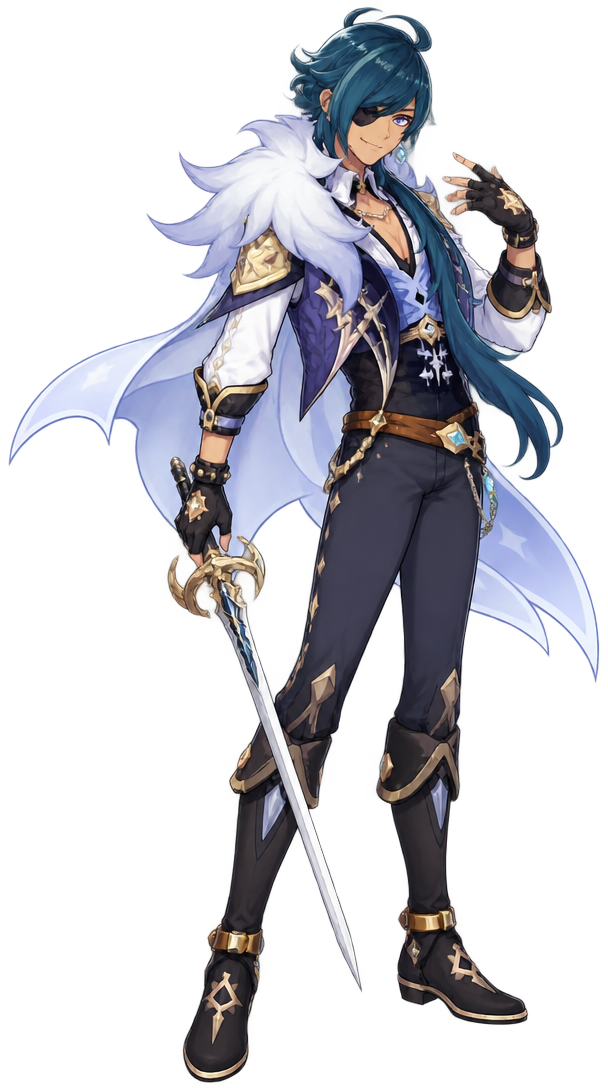
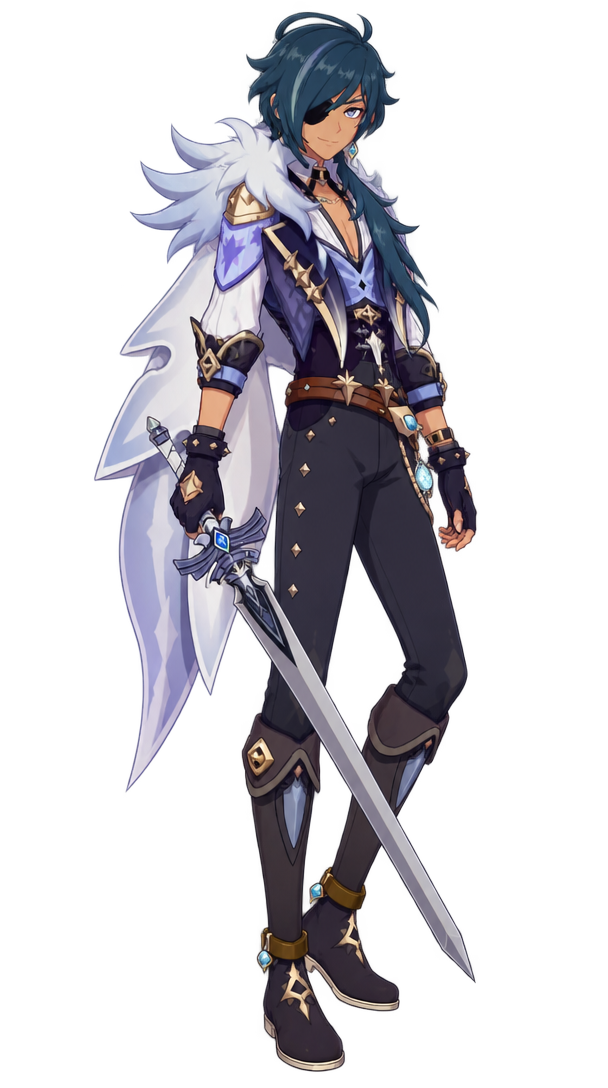
美术：凯亚待机立牌重生成——官方实机五视图参考+禁厚涂定稿
- kaeya_stand.png 内容替换（guid 不变零接线，消费者 UnitConfig 立牌图/FrozenTest 场景自动生效）：用户提供官方实机五视图（正/左右侧/背/武器剑）作唯一参考，日辉 portrait_16_9 原生透明一次过；素材指代标签法+「画风与参考图完全一致——三渲二平涂赛璐璐」+严禁厚涂负向穷举首尾重复+显式排除截图渐变背景光斑；用户目检「非常满意」通过
- 参考素材归档 .codely-cli/webrefs/genshin-unpack/extracted/kaeya_model_views/（本地库不入 git）；配方与取代旧双参考配方的关系沉淀 gic-paperdoll skill
- CODELY.md：凯亚立牌定稿条目 + AI 生成提示词知识库指引条目

diff --git a/CODELY.md b/CODELY.md
@@ -591,7 +591,8 @@
 - [2026-10-06 14:01:12] 【决策四十八：技能按钮底面资源进度填充（2026-10-06 用户拍板「对于需要消耗元能，摩拉等资源的（不包括体力），比如爆发，延奏，契约，其底面不要直接填满颜色，应当根据百分比，从下至上填色（让玩家能一眼看出进度），比如安柏爆发要3元能，如果此时安柏只有2元能，那么只填充66%」；同日目检返修「太暗，亮一点点」轨道系数 0.3→0.4；编译 0 错；**已提交推送 2bc8063（2026-10-06 收官批，用户「验证通过，收尾」）**）】实现：SkillIconView——skillBadge 底板转**暗元素色空槽轨道**（元素色×BadgeTrackFactor 0.4）+懒建 **BadgeFill** 运行时填充件（同 rect/同圆板 sprite/Filled/Vertical/OriginBottom/元素色，sibling 插 Badge 之上 IconMask 之下——Mask 只裁子级不受裁剪；**运行时建件勿入 prefab**=OrbitBeamsUi 惯例，非战斗消费方恒满填=视觉恒等旧版零 prefab 改动零迁移）；SetResourceProgress 只写 fillAmount 不碰颜色（置暗=SetConditionDimmed 统一管，填充件基准色随 InitWithData 缓存，**与决策四十⑦整键置暗正交叠加**）。BattleHud——SkillResourceProgress=非体力消耗逐条 min(持有/需求) 钳 0~1（多条目取最紧一环）；**HeldResourceAmount 单源**（元能=选中单位快照/摩拉=本端缓存/物品=CountHandItem/CountHandAnyItem 计数化——原 HasHandItem/HasHandAnyItem 退役、门槛与进度共用同源、镜像安全网 Warn 迁入）；接线=ApplySkillButton/ApplyMoveButton 尾部（**己方单位才计算**、敌方查看态恒满=同置灰拍板口径、移动键无 Move 条目满填防残留）。**体力不参与**（拍板排除——移动/战技键恒满填）；水位随快照刷新实时跟（战技命中+10 元能→跳涨）。落档 docs/18 决策四十八+docs/17 战斗 HUD 行+gic-battle-hud skill（文件地图行+勿当 bug 修清单条）。
 
 - [2026-10-06 14:01:16] 【决策四十九：战斗 HUD 快捷面板（2026-10-06 用户拍板「左边加上快捷面板，每行显示 角色头像+爆发技能+势力技能（点击该行则选中该角色并丝滑移动相机使其居中，可以参考已经有的），用于让玩家直观看到自己有哪些单位和情况，快速跳转。需要支持上下滚动。魔神优先排前面，伙伴其次，眷属无需放入」；同日两轮目检返修：①「该面板不需要背景」——QuickPanel 纯容器无 Image；②「顶部上移约面板长度 50%、不改底部」——槽高 640→960、底缘锁定 284.8 重算锚 v 0.42→0.5311（现锚 (0.075,0.5311)/320×960）；编译 0 错、prefab 回读断言全绿；**已提交推送 2bc8063（2026-10-06 收官批，用户「验证通过，收尾」）**）】①结构=BattleHud.prefab 新布局槽 **Slots/quick**（15 件可拖可缩；滚动壳四层 QuickPanel→QuickScroll→QuickViewport→QuickContent 镜像手牌壳〔ScrollRect vertical/Elastic 0.1/灵敏度 30+QuickScroll 透明图承射线=拖拽滚动；RectMask2D+VLG 顶锚间距 8+CSF〕；**无背景**（目检拍板）；DragPlate/SelectFrame **克隆 burst 槽成件**；常驻全程不入 ApplyStateVisibility）。②行=运行时建（**BattleHud.QuickPanel.cs 新分件**）：QueueSlot 头像牌（玩家色环/尸体灰染+整行 CanvasGroup 0.55）+**Skill.prefab 实例×2 复用 SkillIconView 全链**（InitWithData→SetConditionDimmed→SetResourceProgress——决策四十八水位在行内生效、按该单位各自元能判定）；**键内 SelectButton 必拆**（不拆=图标区点击被吞、行 Button=唯一入口）；行高 116/图标 88。③收录排序=己方∧魔神/伙伴（眷属不入拍板）∧非协议核心；魔神>伙伴→活>尸→快照序；**签名比对（含存亡）重建+就地刷新**（RebuildHandCards 防抖纪律）。④点击=SelectUnit 既有链+**BattleCameraController.FocusWorldPoint**（新增公开方法——BeginFollowTween 复用决策四十七 0.5s 快进慢出机件，非拖动会话无取消语义；与拖动瞄准并存窗口=SelectUnit 先 ExitAiming 下帧喂 null 不掐补间）；选中行=高亮金 0.25 底。⑤单源收口：**TierOfUnit(UnitState)**（SelectedUnitTier 改走、语义不变）+**HeldPoolAmount**（玩家池资源——选中键/面板行共用）+面板行 UnitHasSkillResources/UnitSkillResourceProgress（与选中键同形）；**势力技能=延奏优先回落契约**（契约无 HUD 键/AI 档 docs/11 挂账）。⑥坑：Skill.prefab 根=RT+CanvasRenderer+**Image（键底图 sprite 39f9…白）**+SkillIconView+SelectButton——行内实例自带键底图观感=刻意复用。落档 docs/18 决策四十九+docs/17 战斗 HUD 行（五分件/15 件）+gic-battle-hud skill（文件地图行+checklist 15 件+勿当 bug 修条）。
-- [2026-10-06 18:09:37] 【背包选中线漂移修复（2026-10-06 暂停态报障「标签选中线跑到标签上面」；现场修复已做+代码修复已落盘**未编译未提交**，编辑器停在用户 Play）】根因=SlideLineCoroutine/SnapSelectLineTo 钉世界 Y 写线，与毛玻璃入场动画（TopPanel=GlassPanelAnimator 内容元素，从上偏移 100）重叠时线被留在父级位移态高度→本地 Y 永久漂移 +100（-130.34→-30.34 压标签上缘；池化实例不重建全程驻留；prefab git 全史恒 -130.34 非资产问题）。判据「子件相对父级永久错位且错位量恰=父级动画偏移量」一发定位。修法=BackpackScreen.Category.cs 新唯一写入口 SetLineWorldX（世界 X 对齐标签+本地 Y 锚回），snap/协程全收口；全案=docs/14 §126。现场修复已把用户暂停会话的线归位可继续测；**待用户退 Play 后 refresh 编译验证+随批提交**；SettingsScreen 无同款线隐患（已核）。HANDOFF 板会话 AR 小节已登记。
+- [2026-10-06 18:25:01] 【背包选中线漂移修复已收官（2026-10-06 暂停态报障「标签选中线跑到标签上面」；用户验证通过，**已提交推送 a3cb29e+78c7e5e=317b969..78c7e5e，代理一把推成**；取代前条「未编译未提交」状态）】根因=SlideLineCoroutine/SnapSelectLineTo 钉世界 Y 写线，与毛玻璃入场动画（TopPanel=GlassPanelAnimator 内容元素，从上偏移 100）重叠时线被留在父级位移态高度→本地 Y 永久漂移 +100（-130.34→-30.34 压标签上缘；池化实例不重建全程驻留；prefab git 全史恒 -130.34 非资产问题）。判据「子件相对父级永久错位且错位量恰=父级动画偏移量」一发定位。修法=BackpackScreen.Category.cs 新唯一写入口 SetLineWorldX（世界 X 对齐标签+本地 Y 锚回），snap/协程全收口；全案=docs/14 §126。SettingsScreen 无同款线隐患（已核）；HANDOFF 板会话 AR 已收口。
+- [2026-10-06 19:36:48] 【凯亚待机立牌重生成定稿（2026-10-06 用户「验证通过，非常满意」）】用户提供官方实机五视图（正/左/右/背/武器剑，归档 webrefs/genshin-unpack/extracted/kaeya_model_views/，要求只喂这五张+还原官方画风+不要厚涂）→日辉 frontier_sunburst portrait_16_9+is_segmentation 一次过：素材指代标签法（图片1=正面基准/2/3=正侧/4=背面披风/5=武器）+「画风与参考图完全一致——三渲二平涂赛璐璐」+严禁厚涂负向穷举首尾重复+显式排除截图渐变背景光斑；像素核验（透明 64%/留白 L92 T1 R128 B14）+粗检六项绿→目检通过。已内容替换 Assets/Art/PaperDoll/kaeya_stand.png（guid 不变零接线，消费者 UnitConfig 立牌图+FrozenTest 场景 guid 反查实证）+refresh 0 错；配方与取代关系=gic-paperdoll skill 五视图条目（旧 amber_glide+卡面双参考配方对此角色已废）。**多参考复刻新范式=官方实机多视图+素材指代标签法，外部调研知识（ai-media-prompts/NOTES.md）首次实战验证**。遗留：凯亚待机循环动画暂不做（用户拍板）；图02/03 左右标注与几何读数疑似对调待用户下次目检顺带确认（不影响现役）。
 
 ### Reference
 - [2026-09-16 20:01:18] MC mod gichess（旧项目，Java/NeoForge）：源码 D:\Game\mod\wg-template-1.21.4\src\main\java\com\wg\gichess\（308文件），jar D:\Tuanjie_editor\gic\.codely-cli\webrefs\genshin-unpack\gichess\my\wg-0.2.d（2026-09-05 随 gichess 77.78GB GI 解包归档整体迁入 webrefs/genshin-unpack/，原 D:\Picture\gichess）。~20+角色，7元素18反应，蒙德延奏/纳塔夜魂已实现。**Why:** GIC 战斗系统 Unity 移植的架构参考。**How to apply:** 仅作战斗系统架构参考；**旧 mod 资产一律不再用（2026-09-16 用户拍板「旧 gichess mod 不要再用」：播报员/派蒙语音 wav、模型、贴图等一切提取物都不再作为 GIC 素材来源，含 TTS 音色克隆样本；2026-09-14 已拍音频/曲目不翻旧 mod，音乐素材由用户自行网找）**。需要查旧 Java 实现时按路径阅读源码。
@@ -629,3 +630,4 @@
 - [2026-09-25 23:23:56] 【EGamePlay 参照仓库正主勘误】docs/17 与 docs/active/29 所引 "qq362946661/EGamePlay" 已 404 失效；正主=github.com/m969/EGamePlay（2026-09-25 api.github.com 实证：2380★、MIT、fork 545、2026-09 仍活跃推送，topics=buff/skill/unity；另有 m969/AOGame=基于 ET 的续作 120★）。本地源码快照在 .codely-cli/webrefs/skill-timeline-system/EGamePlay_src/（拍平文件，AbilityEffect=EcsEntity+运行时组件化 EffectDamageComponent 等——与 GIC EffectCompiler 编译期展开的对照基准，2026-09-25 审查已核：GIC 选择更贴回合制）。引用时按 m969/EGamePlay 写。
 - [2026-09-27 00:31:27] 【多模态积分单价快照（2026-09-27 抓 codely-docs/subscription/credits-description；模型档位=价格信号）】图/张：frontier 家族（日辉/耀斑）1K=75 全站最贵（4K=175）；Seedream Pro 1K=45（2K=180，IP 角色被版权拦截）；混元3.0=60；Qwen 1K=35（2K=60/4K=100）；Seedream lite=35；frontier_lite 25~40。sprite_sequence=150/次（16 帧固定）；图片超分=10/次；Qwen 分层=25/次；Pro 分层额外每张 45/90。视频 5s：Seedance2.5@720p=1890 > 2.0@720p=1245 > 2.0fast=750 > H3-2K=750 > H3-Max@768P=375 ≈ H3@768P=375 > Wan3.0=225 > Seedance mini=250 > HappyHorse=150。3D：Tripo P2 图生=1000 > P2 文生=850 > P1 图生=300 > P1 文生=250；Rodin/混元3.1=150。**How to apply：模型选型/强度对比/成本预估先查此快照勿重复抓页；价格随上游变动、隔久需重抓核对。**
 - [2026-10-03 19:43:55] 【2026 游戏单位 AI 脑业界调研结论+一手信源（2026-10-03 三路网检，支撑 E 批次选型）】①2026 最先进 AI 脑=分层混合架构：BT 反射+GOAP/HTN 规划回潮（标杆=GDC 2025 KCD2 GOAP+MBT gdcvault.com/play/1035576、Bitpart HTN 多智能体 gdcvault.com/play/1035557）+utility 工程化+端侧 SLM 只做队友不做敌人（PUBG Ally 快慢分离=2026 标志架构）+窄域 designer-first RL（FC26 守门员已量产）；②商业战术层全部=打分制零搜索——Into the Breach 全文档（作者公开 archive.org/details/into-the-breach-ai：枚举×固定权重×top-k 随机，89 Meta 分，"玩家总以为 AI 做的比实际多"）、XCOM2=BT+ini 数据驱动（sterlingvix.github.io/xcom2ai）、botbowl 学术史=脚本 bot 长期碾压 ML（github.com/njustesen/botbowl）；③WEGO 同时回合制：Frozen Synapse=信息对称让简单 AI 成立（拟人>最优）、学术标准武器=PIMC（OpenSpiel 有参考实现）但生产零落地；④一手幻灯片全文 4 份存 %TEMP%\ai_research\（L4D Director/Halo3 Objectives「plinko」/HTN GameAIPro Ch12/GDC2024 自杀小队四层行为栈 Activity→Group→Agent→Actuation）——临时目录重启会清，需要长存时拷入 .codely-cli/webrefs/；⑤对马岛「incentive-based AI」与 Gears HTN 均未找到一手证据（子代理 5 轮检索证伪，引用时勿当定论）。
+- [2026-10-06 19:18:37] 【AI 图片/视频生成提示词写法知识库（2026-10-06 用户委托调研沉淀）】综合笔记=.codely-cli/webrefs/ai-media-prompts/NOTES.md（各家官方框架速览+跨模型写法铁律 12 条+绿幕措辞正负清单+与 gic-paperdoll 十轮教训对照表+下次生成直接用的模板骨架）；原始摘录=同目录 4 子目录（volcengine-seedance-seedream 11 篇官方/minimax-hailuo 官方全量/cross-model-video-guides 5 篇/green-screen-isolation 7 篇）。关键事实：六家官方指南（Runway/Sora/Veo/Unity/MiniMax/火山）均无绿幕生成、无 loop 专项——我们的「循环节拍提示词」+压绿首帧链路=自创实证配方无官方替代；I2V 只写运动/不复述首帧=三家官方统一口径；负向约束穷举同义词+首尾重复=Seedance 官方技巧。gic-paperdoll skill 已加「提示词写法外部知识库」指针节（含增量用法）。
